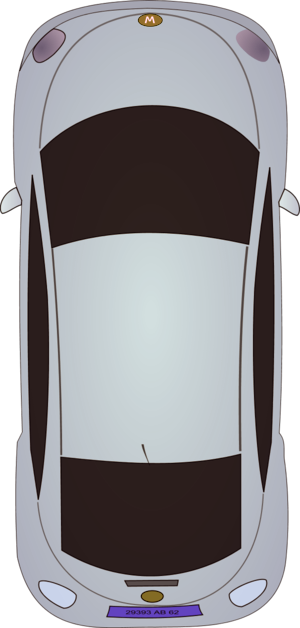
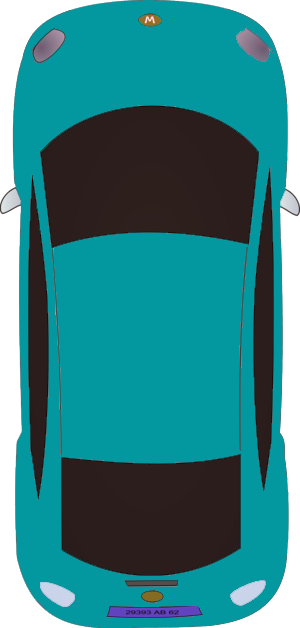
Updated car colors

diff --git a/gym_driving/envs/environment.py b/gym_driving/envs/environment.py
@@ -18,7 +18,7 @@ class Environment:
 
     def __init__(self, graphics_mode, screen_size, screen=None, param_dict=None):
         self.param_dict = param_dict
-        self.cpu_car_textures = ['blue', 'green']
+        self.cpu_car_textures = ['orange', 'red']
         self.screen_size = screen_size
         self.screen = screen
         self.graphics_mode = graphics_mode
@@ -96,6 +96,13 @@ class Environment:
         
         pygame.display.update()
 
+    def downsample(self, state, output_size):
+        w, h = state.shape
+        while w > output_size and h > output_size:
+            state = cv2.pyrDown(state, dstsize = (w / 2, h / 2))
+            w, h = state.shape
+        return state
+
     def get_state(self):
         """
         Returns current state, corresponding
@@ -122,15 +129,7 @@ class Environment:
         elif self.state_space == 'image':
             state = pygame.surfarray.array2d(self.screen).astype(np.uint8)
             self.downsample(state, self.downsampled_size)
-        # IPython.embed()
         return state, info_dict
-
-    def downsample(self, state, output_size):
-        w, h = state.shape
-        while w > output_size and h > output_size:
-            state = cv2.pyrDown(state, dstsize = (w / 2, h / 2))
-            w, h = state.shape
-        return state
 
     def get_compact_state(self):
         _, main_car_info_dict = self.main_car.get_state() 
@@ -167,7 +166,6 @@ class Environment:
 
         # Convert to action space, apply action
         action_unpacked = np.array([steer, acc])
-        # self.main_car.take_action(action_unpacked)
         
         self.main_car.step(action_unpacked)
         for vehicle in self.vehicles:

diff --git a/gym_driving/envs/dynamic_car.py b/gym_driving/envs/dynamic_car.py
@@ -60,10 +60,11 @@ class DynamicCar(Car):
             a = ddx_body ** 2 + ddy_body ** 2
             b = 2 * (ddx_body * self.dx_body + ddy_body * self.dy_body)
             c = self.dx_body ** 2 + self.dy_body ** 2 - self.max_vel ** 2
-            # if b ** 2 - 4 * a * c < 0:
-            #     IPython.embed()
-            ratios = (-b + np.sqrt(b**2 - 4*a*c)) / (2*a) , (-b - np.sqrt(b**2 - 4*a*c)) / (2*a) 
-            ratio = max(ratios)
+            if b ** 2 - 4 * a * c < 0:
+                ratio = 0.0
+            else:
+                ratios = (-b + np.sqrt(b**2 - 4*a*c)) / (2*a) , (-b - np.sqrt(b**2 - 4*a*c)) / (2*a) 
+                ratio = max(ratios)
             ddx_body, ddy_body = ddx_body * ratio, ddy_body * ratio
             # ddx_body, ddy_body = 0.0, 0.0
 

diff --git a/gym_driving/envs/car.py b/gym_driving/envs/car.py
@@ -21,7 +21,7 @@ class Car(Rectangle):
         self.texture = texture
         self.graphics_mode = graphics_mode
 
-        car_textures = ['main', 'blue', 'green']
+        car_textures = ['main', 'blue', 'green', 'orange', 'red']
         if self.graphics_mode:
             if texture in car_textures:
                 base_dir = os.path.dirname(__file__)

diff --git a/gym_driving/envs/run_simulator.py b/gym_driving/envs/run_simulator.py
@@ -12,7 +12,7 @@ import cProfile
 import IPython
 
 TIMESTEPS = 1000
-SLEEP_DELAY = .005
+SLEEP_DELAY = .01
 ACC_ACTION = 5.0
 STEER_ACTION = 15.0
 FPS = 30
